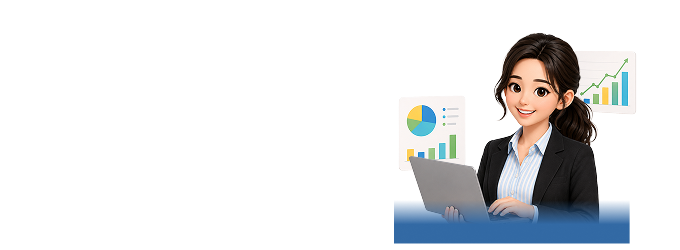
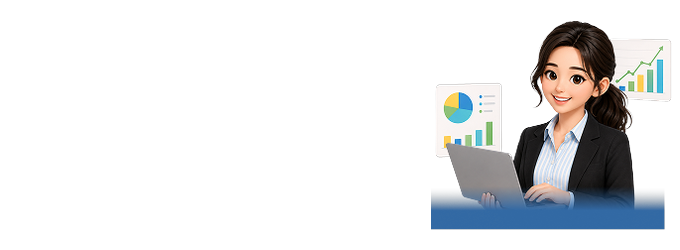
메인 시안 A: 롤링배너 크롭 근본해결 - hero_1/4/5 PNG 원본이 캔버스 끝까지 붙어 잘려있던 것을 상하20px·우8px 투명여백으로 재합성, CSS는 auto 100% 복귀 (v=di)

Changed region(s): [[0.5559, 0.084, 0.9882, 0.98]]

diff --git a/mockups/ne-books-mall/메인_2.html b/mockups/ne-books-mall/메인_2.html
@@ -10,9 +10,9 @@
 <link href="https://fonts.googleapis.com/css2?family=Noto+Sans+KR:wght@400;500;600;700;800&display=swap" rel="stylesheet">
 <!-- Pretendard (design font) via CDN, with Noto Sans KR fallback -->
 <link rel="stylesheet" href="https://cdn.jsdelivr.net/gh/orioncactus/pretendard@v1.3.9/dist/web/static/pretendard.min.css">
-<link rel="stylesheet" href="css/layout.css?v=20260815dh">
-<script src="js/layout.js?v=20260815dh" defer></script>
-<script src="js/search.js?v=20260815dh" defer></script>
+<link rel="stylesheet" href="css/layout.css?v=20260815di">
+<script src="js/layout.js?v=20260815di" defer></script>
+<script src="js/search.js?v=20260815di" defer></script>
 <style>
 /* ===== 메인 시안 A (메인_2) 전용 ===== */
 /* 맞춤교재 세트 애니 아이콘 */
@@ -115,7 +115,7 @@
   .m2-bn{flex:0 0 86vw;aspect-ratio:335/150;border-radius:12px;}
   .m2-bn .tx{margin-left:24px;max-width:62%;}
   /* 이미지 높이를 배너보다 작게(82%) → 위아래 잘림 없이 여백 확보 */
-  .m2-bn.hero1,.m2-bn.hero2,.m2-bn.hero3,.m2-bn.hero4,.m2-bn.hero5{background-size:auto 78%;} /* 이미지 높이 78%로 상하 여백 확보 → 크롭 느낌 제거 */
+  .m2-bn.hero1,.m2-bn.hero2,.m2-bn.hero3,.m2-bn.hero4,.m2-bn.hero5{background-size:auto 100%;} /* PNG에 상하 20px 투명 여백 내장 → 크롭 없음 */
   .m2-bn h3{font-size:18px;line-height:1.3;}
   .m2-bn .lb{font-size:12px;margin-bottom:8px;}
   .m2-bn p{font-size:12px;margin-top:8px;white-space:nowrap;overflow:hidden;text-overflow:ellipsis;} /* 모바일 설명 한 줄 고정 */

diff --git a/mockups/ne-books-mall/oxford.html b/mockups/ne-books-mall/oxford.html
@@ -28,12 +28,12 @@
 .oup_all_wrap img{max-width:none;}
 </style>
 <!-- 우리 NE Books GNB/Footer 스타일 (Oxford CSS 뒤에 로드 → 헤더/푸터는 우리 스타일이 우선) -->
-<link rel="stylesheet" href="css/layout.css?v=20260815dh">
+<link rel="stylesheet" href="css/layout.css?v=20260815di">
 <!-- Oxford 콘텐츠가 쓰는 jQuery (동기 로드) -->
 <script type="text/javascript" src="https://www.nebooks.co.kr/inc/js/jquery/jquery-1.11.0.min.js"></script>
 <!-- 우리 GNB/Footer 주입 -->
-<script src="js/layout.js?v=20260815dh" defer></script>
-<script src="js/search.js?v=20260815dh" defer></script>
+<script src="js/layout.js?v=20260815di" defer></script>
+<script src="js/search.js?v=20260815di" defer></script>
 </head>
 <body class="page-oxford">
 

diff --git a/mockups/ne-books-mall/오류정정상세.html b/mockups/ne-books-mall/오류정정상세.html
@@ -8,9 +8,9 @@
 <link rel="preconnect" href="https://fonts.gstatic.com" crossorigin>
 <link href="https://fonts.googleapis.com/css2?family=Noto+Sans+KR:wght@400;500;600;700;800&display=swap" rel="stylesheet">
 <link rel="stylesheet" href="https://cdn.jsdelivr.net/gh/orioncactus/pretendard@v1.3.9/dist/web/static/pretendard.min.css">
-<link rel="stylesheet" href="css/layout.css?v=20260815dh">
-<script src="js/layout.js?v=20260815dh" defer></script>
-<script src="js/search.js?v=20260815dh" defer></script>
+<link rel="stylesheet" href="css/layout.css?v=20260815di">
+<script src="js/layout.js?v=20260815di" defer></script>
+<script src="js/search.js?v=20260815di" defer></script>
 </head>
 <body class="page-my page-evd page-ntd page-eed">
 

diff --git a/mockups/ne-books-mall/공지사항상세.html b/mockups/ne-books-mall/공지사항상세.html
@@ -8,9 +8,9 @@
 <link rel="preconnect" href="https://fonts.gstatic.com" crossorigin>
 <link href="https://fonts.googleapis.com/css2?family=Noto+Sans+KR:wght@400;500;600;700;800&display=swap" rel="stylesheet">
 <link rel="stylesheet" href="https://cdn.jsdelivr.net/gh/orioncactus/pretendard@v1.3.9/dist/web/static/pretendard.min.css">
-<link rel="stylesheet" href="css/layout.css?v=20260815dh">
-<script src="js/layout.js?v=20260815dh" defer></script>
-<script src="js/search.js?v=20260815dh" defer></script>
+<link rel="stylesheet" href="css/layout.css?v=20260815di">
+<script src="js/layout.js?v=20260815di" defer></script>
+<script src="js/search.js?v=20260815di" defer></script>
 </head>
 <body class="page-my page-evd page-ntd">
 

diff --git a/mockups/ne-books-mall/세미나상세.html b/mockups/ne-books-mall/세미나상세.html
@@ -8,9 +8,9 @@
 <link rel="preconnect" href="https://fonts.gstatic.com" crossorigin>
 <link href="https://fonts.googleapis.com/css2?family=Noto+Sans+KR:wght@400;500;600;700;800&display=swap" rel="stylesheet">
 <link rel="stylesheet" href="https://cdn.jsdelivr.net/gh/orioncactus/pretendard@v1.3.9/dist/web/static/pretendard.min.css">
-<link rel="stylesheet" href="css/layout.css?v=20260815dh">
-<script src="js/layout.js?v=20260815dh" defer></script>
-<script src="js/search.js?v=20260815dh" defer></script>
+<link rel="stylesheet" href="css/layout.css?v=20260815di">
+<script src="js/layout.js?v=20260815di" defer></script>
+<script src="js/search.js?v=20260815di" defer></script>
 </head>
 <body class="page-my page-evd page-smd">
 

diff --git a/mockups/ne-books-mall/후기수정.html b/mockups/ne-books-mall/후기수정.html
@@ -8,9 +8,9 @@
 <link rel="preconnect" href="https://fonts.gstatic.com" crossorigin>
 <link href="https://fonts.googleapis.com/css2?family=Noto+Sans+KR:wght@400;500;600;700;800&display=swap" rel="stylesheet">
 <link rel="stylesheet" href="https://cdn.jsdelivr.net/gh/orioncactus/pretendard@v1.3.9/dist/web/static/pretendard.min.css">
-<link rel="stylesheet" href="css/layout.css?v=20260815dh">
-<script src="js/layout.js?v=20260815dh" defer></script>
-<script src="js/search.js?v=20260815dh" defer></script>
+<link rel="stylesheet" href="css/layout.css?v=20260815di">
+<script src="js/layout.js?v=20260815di" defer></script>
+<script src="js/search.js?v=20260815di" defer></script>
 </head>
 <body class="page-my page-rvwrite">
 

diff --git a/mockups/ne-books-mall/후기작성.html b/mockups/ne-books-mall/후기작성.html
@@ -8,9 +8,9 @@
 <link rel="preconnect" href="https://fonts.gstatic.com" crossorigin>
 <link href="https://fonts.googleapis.com/css2?family=Noto+Sans+KR:wght@400;500;600;700;800&display=swap" rel="stylesheet">
 <link rel="stylesheet" href="https://cdn.jsdelivr.net/gh/orioncactus/pretendard@v1.3.9/dist/web/static/pretendard.min.css">
-<link rel="stylesheet" href="css/layout.css?v=20260815dh">
-<script src="js/layout.js?v=20260815dh" defer></script>
-<script src="js/search.js?v=20260815dh" defer></script>
+<link rel="stylesheet" href="css/layout.css?v=20260815di">
+<script src="js/layout.js?v=20260815di" defer></script>
+<script src="js/search.js?v=20260815di" defer></script>
 </head>
 <body class="page-my page-rvwrite">
 

diff --git a/mockups/ne-books-mall/신간개정상세.html b/mockups/ne-books-mall/신간개정상세.html
@@ -8,9 +8,9 @@
 <link rel="preconnect" href="https://fonts.gstatic.com" crossorigin>
 <link href="https://fonts.googleapis.com/css2?family=Noto+Sans+KR:wght@400;500;600;700;800&display=swap" rel="stylesheet">
 <link rel="stylesheet" href="https://cdn.jsdelivr.net/gh/orioncactus/pretendard@v1.3.9/dist/web/static/pretendard.min.css">
-<link rel="stylesheet" href="css/layout.css?v=20260815dh">
-<script src="js/layout.js?v=20260815dh" defer></script>
-<script src="js/search.js?v=20260815dh" defer></script>
+<link rel="stylesheet" href="css/layout.css?v=20260815di">
+<script src="js/layout.js?v=20260815di" defer></script>
+<script src="js/search.js?v=20260815di" defer></script>
 </head>
 <body class="page-my page-evd">
 

diff --git a/mockups/ne-books-mall/이벤트상세.html b/mockups/ne-books-mall/이벤트상세.html
@@ -8,9 +8,9 @@
 <link rel="preconnect" href="https://fonts.gstatic.com" crossorigin>
 <link href="https://fonts.googleapis.com/css2?family=Noto+Sans+KR:wght@400;500;600;700;800&display=swap" rel="stylesheet">
 <link rel="stylesheet" href="https://cdn.jsdelivr.net/gh/orioncactus/pretendard@v1.3.9/dist/web/static/pretendard.min.css">
-<link rel="stylesheet" href="css/layout.css?v=20260815dh">
-<script src="js/layout.js?v=20260815dh" defer></script>
-<script src="js/search.js?v=20260815dh" defer></script>
+<link rel="stylesheet" href="css/layout.css?v=20260815di">
+<script src="js/layout.js?v=20260815di" defer></script>
+<script src="js/search.js?v=20260815di" defer></script>
 </head>
 <body class="page-my page-evd">
 

diff --git a/mockups/ne-books-mall/index.html b/mockups/ne-books-mall/index.html
@@ -10,9 +10,9 @@
 <link href="https://fonts.googleapis.com/css2?family=Noto+Sans+KR:wght@400;500;600;700;800&display=swap" rel="stylesheet">
 <!-- Pretendard (design font) via CDN, with Noto Sans KR fallback -->
 <link rel="stylesheet" href="https://cdn.jsdelivr.net/gh/orioncactus/pretendard@v1.3.9/dist/web/static/pretendard.min.css">
-<link rel="stylesheet" href="css/layout.css?v=20260815dh">
-<script src="js/layout.js?v=20260815dh" defer></script>
-<script src="js/search.js?v=20260815dh" defer></script>
+<link rel="stylesheet" href="css/layout.css?v=20260815di">
+<script src="js/layout.js?v=20260815di" defer></script>
+<script src="js/search.js?v=20260815di" defer></script>
 </head>
 <body class="page-index">
 

diff --git a/mockups/ne-books-mall/리스트_학습자료.html b/mockups/ne-books-mall/리스트_학습자료.html
@@ -10,9 +10,9 @@
 <link href="https://fonts.googleapis.com/css2?family=Noto+Sans+KR:wght@400;500;600;700;800&display=swap" rel="stylesheet">
 <!-- Pretendard (design font) via CDN, with Noto Sans KR fallback -->
 <link rel="stylesheet" href="https://cdn.jsdelivr.net/gh/orioncactus/pretendard@v1.3.9/dist/web/static/pretendard.min.css">
-<link rel="stylesheet" href="css/layout.css?v=20260815dh">
-<script src="js/layout.js?v=20260815dh" defer></script>
-<script src="js/search.js?v=20260815dh" defer></script>
+<link rel="stylesheet" href="css/layout.css?v=20260815di">
+<script src="js/layout.js?v=20260815di" defer></script>
+<script src="js/search.js?v=20260815di" defer></script>
 </head>
 <body class="page-study">
 

diff --git a/mockups/ne-books-mall/검색결과.html b/mockups/ne-books-mall/검색결과.html
@@ -8,9 +8,9 @@
 <link rel="preconnect" href="https://fonts.gstatic.com" crossorigin>
 <link href="https://fonts.googleapis.com/css2?family=Noto+Sans+KR:wght@400;500;600;700;800&display=swap" rel="stylesheet">
 <link rel="stylesheet" href="https://cdn.jsdelivr.net/gh/orioncactus/pretendard@v1.3.9/dist/web/static/pretendard.min.css">
-<link rel="stylesheet" href="css/layout.css?v=20260815dh">
-<script src="js/layout.js?v=20260815dh" defer></script>
-<script src="js/search.js?v=20260815dh" defer></script>
+<link rel="stylesheet" href="css/layout.css?v=20260815di">
+<script src="js/layout.js?v=20260815di" defer></script>
+<script src="js/search.js?v=20260815di" defer></script>
 </head>
 <body class="page-search">
 
